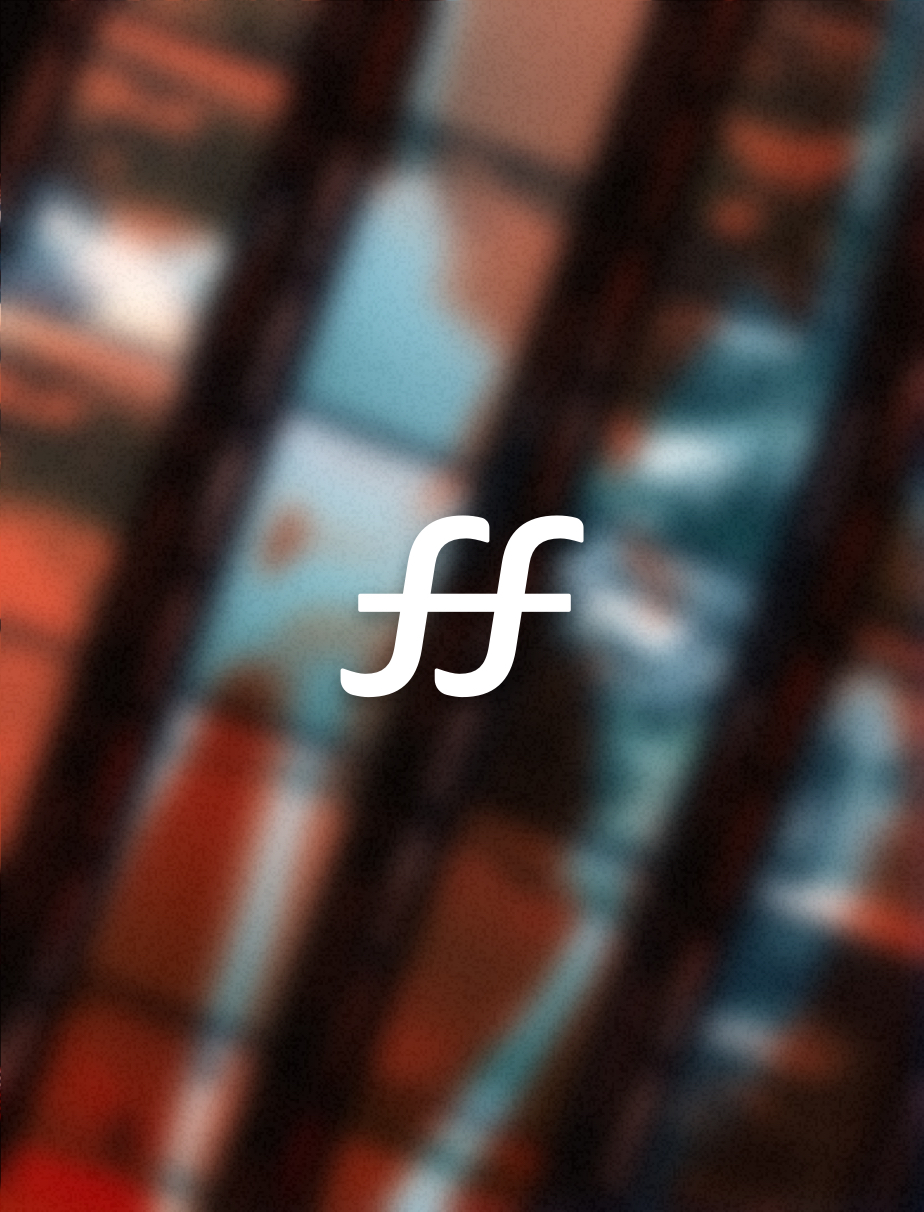
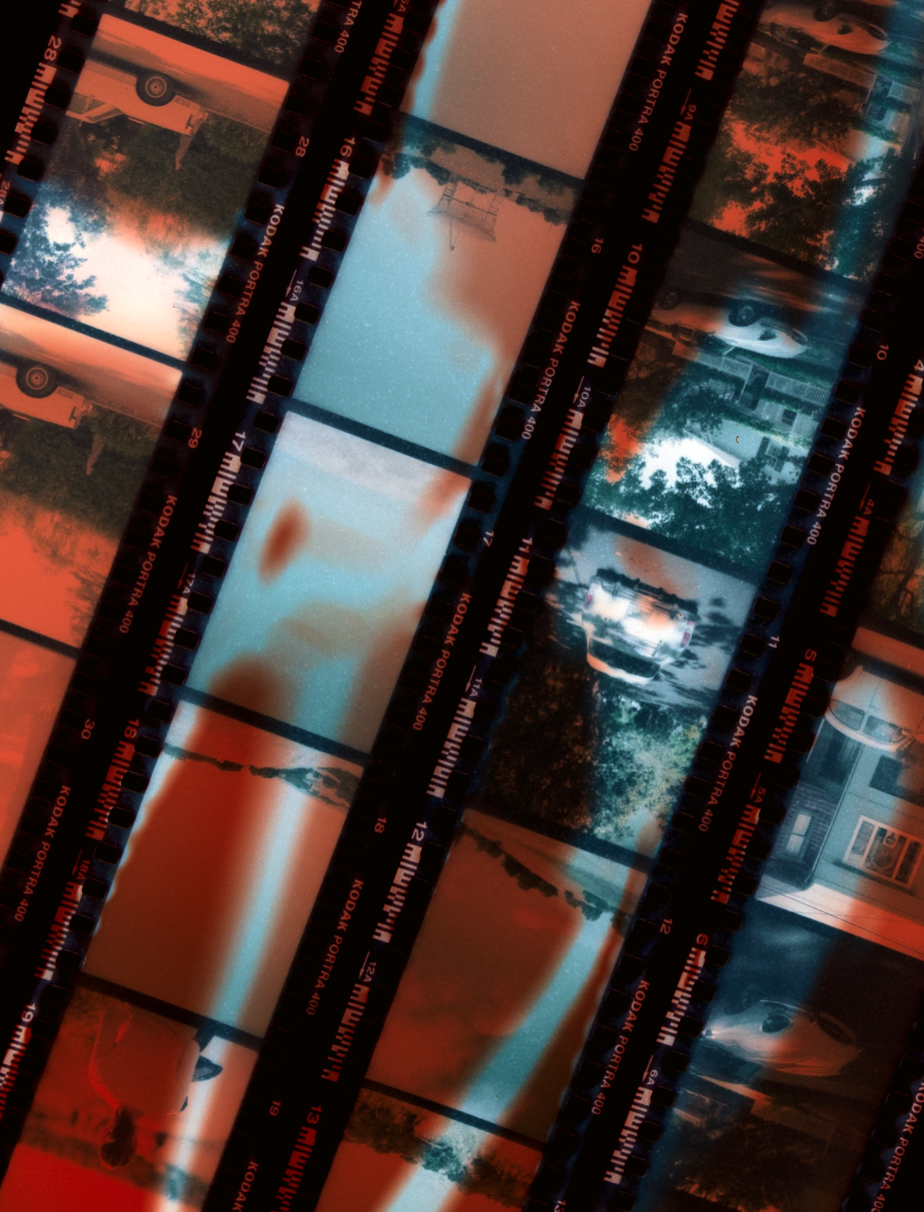
:construction:

diff --git a/filmfeed.html b/filmfeed.html
@@ -14,14 +14,14 @@
       <div class="overlay"></div>
       <img
         id="project-cover"
-        src="./assets/images/projects/instagram/instagram_header.jpg"
+        src="./assets/images/projects/filmfeed/filmfeed_header.jpg"
         srcset="
-          ./assets/images/projects/clear-sky/clear-sky_header.jpg     720w,
-          ./assets/images/projects/clear-sky/clear-sky_header@2x.jpg 1440w,
-          ./assets/images/projects/clear-sky/clear-sky_header@3x.jpg 2160w,
-          ./assets/images/projects/clear-sky/clear-sky_header@4x.jpg 2880w,
-          ./assets/images/projects/clear-sky/clear-sky_header@5x.jpg 3600w,
-          ./assets/images/projects/clear-sky/clear-sky_header@6x.jpg 4320w
+          ./assets/images/projects/filmfeed/filmfeed_header.jpg     720w,
+          ./assets/images/projects/filmfeed/filmfeed_header@2x.jpg 1440w,
+          ./assets/images/projects/filmfeed/filmfeed_header@3x.jpg 2160w,
+          ./assets/images/projects/filmfeed/filmfeed_header@4x.jpg 2880w,
+          ./assets/images/projects/filmfeed/filmfeed_header@5x.jpg 3600w,
+          ./assets/images/projects/filmfeed/filmfeed_header@6x.jpg 4320w
         "
         alt=""
       />
@@ -30,75 +30,58 @@
       <div class="container block">
         <h1>FilmFeed</h1>
         <p>
-          During the first edition of
-          <a href="https://www.framer.com/loupe/">Loupe</a>, I build my first
-          prototype with Framer X. This was for me the opportunity to dust off
-          my front-end skills, with the introduction of React in Framer.
+          As I started shooting film in 2018, I needed a way to share my work
+          with others. While Instagram and Flickr are some valid options, I
+          wanted to create a more personal experience. It was also the
+          opportunity for me to combine my 2 passions: photography & design.
         </p>
       </div>
       <div class="container full-width">
         <img
           class="full-width"
-          src="./assets/images/projects/clear-sky/screens.png"
+          src="./assets/images/projects/filmfeed/camera.jpg"
           srcset="
-            ./assets/images/projects/clear-sky/screens.png    1440w,
-            ./assets/images/projects/clear-sky/screens@2x.png 2880w,
-            ./assets/images/projects/clear-sky/screens@3x.png 4320w
+            ./assets/images/projects/filmfeed/camera.jpg    1440w,
+            ./assets/images/projects/filmfeed/camera@2x.jpg 2880w,
+            ./assets/images/projects/filmfeed/camera@3x.jpg 4320w
           "
           alt=""
         />
       </div>
       <div class="container block">
-        <h2>Stories</h2>
+        <h2>Logo and branding</h2>
         <p>
-          The prototype is a simple app showing the chances of precipitation in
-          the next hours. It uses geolocalisation to get the position of the
-          user and Dark Sky for the weather predictions.
+          The logo is composed of 2 keys elements: The background is a grainy 3
+          colors gradient, made of a warm yellow, a vivid red and a cool blue.
+          The combinaison creates a spectrum of colors, while the grain provides
+          some texture on top. The logo uses the initials of FilmFeed and is a
+          reference to the URL of the website. It is made of 2 Fs that represent
+          the aperture number in photography.
         </p>
         <img
-          src="./assets/images/projects/instagram/posts.png"
+          src="./assets/images/projects/filmfeed/logo.png"
           srcset="
-            ./assets/images/projects/instagram/stories.png     649w,
-            ./assets/images/projects/instagram/stories@2x.png 1948w
+            ./assets/images/projects/filmfeed/logo.png     649w,
+            ./assets/images/projects/filmfeed/logo@2x.png 1948w
           "
           alt=""
         />
-        <h2>Instagram for iPad</h2>
+        <h2>Approche</h2>
         <p>
-          Lorem ipsum dolor sit amet, consectetur adipiscing elit. Integer
-          pretium odio eget velit tincidunt dapibus sed consequat dolor. Integer
-          rutrum viverra arcu, vel ullamcorper mauris mollis eu. Aliquam erat
-          volutpat. Orci varius natoque penatibus et magnis dis parturient
-          montes, nascetur ridiculus mus. Phasellus tellus sem, lacinia semper
-          sodales id, elementum non nisl. Nullam quis lacus mollis, pulvinar est
-          quis, aliquam dui. Proin vel egestas libero, quis gravida tellus.
-          Aliquam nec turpis purus. Mauris eu tellus tempus, mattis erat id,
-          bibendum libero.
+          For this personal project, I wanted it to reflect the experience of
+          shooting film as much as possible. Simplicity and focus are two of its
+          main components. During the entire design process, I kept asking
+          myself if my decisions would align with this approche.
         </p>
+      </div>
+      <div class="container full-width">
         <img
-          src="./assets/images/projects/instagram/posts.png"
+          class="full-width"
+          src="./assets/images/projects/filmfeed/grid.jpg"
           srcset="
-            ./assets/images/projects/instagram/stories.png     649w,
-            ./assets/images/projects/instagram/stories@2x.png 1948w
-          "
-          alt=""
-        />
-        <p>
-          Lorem ipsum dolor sit amet, consectetur adipiscing elit. Integer
-          pretium odio eget velit tincidunt dapibus sed consequat dolor. Integer
-          rutrum viverra arcu, vel ullamcorper mauris mollis eu. Aliquam erat
-          volutpat. Orci varius natoque penatibus et magnis dis parturient
-          montes, nascetur ridiculus mus. Phasellus tellus sem, lacinia semper
-          sodales id, elementum non nisl. Nullam quis lacus mollis, pulvinar est
-          quis, aliquam dui. Proin vel egestas libero, quis gravida tellus.
-          Aliquam nec turpis purus. Mauris eu tellus tempus, mattis erat id,
-          bibendum libero.
-        </p>
-        <img
-          src="./assets/images/projects/instagram/posts.png"
-          srcset="
-            ./assets/images/projects/instagram/stories.png     649w,
-            ./assets/images/projects/instagram/stories@2x.png 1948w
+            ./assets/images/projects/filmfeed/grid.jpg    1440w,
+            ./assets/images/projects/filmfeed/grid@2x.jpg 2880w,
+            ./assets/images/projects/filmfeed/grid@3x.jpg 4320w
           "
           alt=""
         />

diff --git a/clear-sky.html b/clear-sky.html
@@ -14,7 +14,7 @@
       <div class="overlay"></div>
       <img
         id="project-cover"
-        src="./assets/images/projects/instagram/instagram_header.jpg"
+        src="./assets/images/projects/clear-sky/clear-sky_header.jpg"
         srcset="
           ./assets/images/projects/clear-sky/clear-sky_header.jpg     720w,
           ./assets/images/projects/clear-sky/clear-sky_header@2x.jpg 1440w,
@@ -56,7 +56,7 @@
           user and Dark Sky for the weather predictions.
         </p>
         <img
-          src="./assets/images/projects/instagram/posts.png"
+          src="./assets/images/projects/instagram/posts.jpg"
           srcset="
             ./assets/images/projects/instagram/stories.png     649w,
             ./assets/images/projects/instagram/stories@2x.png 1948w
@@ -76,7 +76,7 @@
           bibendum libero.
         </p>
         <img
-          src="./assets/images/projects/instagram/posts.png"
+          src="./assets/images/projects/instagram/posts.jpg"
           srcset="
             ./assets/images/projects/instagram/stories.png     649w,
             ./assets/images/projects/instagram/stories@2x.png 1948w
@@ -95,7 +95,7 @@
           bibendum libero.
         </p>
         <img
-          src="./assets/images/projects/instagram/posts.png"
+          src="./assets/images/projects/instagram/posts.jpg"
           srcset="
             ./assets/images/projects/instagram/stories.png     649w,
             ./assets/images/projects/instagram/stories@2x.png 1948w

diff --git a/front.html b/front.html
@@ -54,7 +54,7 @@
           user and Dark Sky for the weather predictions.
         </p>
         <img
-          src="./assets/images/projects/instagram/posts.png"
+          src="./assets/images/projects/instagram/posts.jpg"
           srcset="
             ./assets/images/projects/instagram/stories.png     649w,
             ./assets/images/projects/instagram/stories@2x.png 1948w
@@ -74,7 +74,7 @@
           bibendum libero.
         </p>
         <img
-          src="./assets/images/projects/instagram/posts.png"
+          src="./assets/images/projects/instagram/posts.jpg"
           srcset="
             ./assets/images/projects/instagram/stories.png     649w,
             ./assets/images/projects/instagram/stories@2x.png 1948w
@@ -93,7 +93,7 @@
           bibendum libero.
         </p>
         <img
-          src="./assets/images/projects/instagram/posts.png"
+          src="./assets/images/projects/instagram/posts.jpg"
           srcset="
             ./assets/images/projects/instagram/stories.png     649w,
             ./assets/images/projects/instagram/stories@2x.png 1948w

diff --git a/instagram-for-ipad.html b/instagram-for-ipad.html
@@ -37,11 +37,11 @@
       <div class="container full-width">
         <img
           class="full-width"
-          src="./assets/images/projects/instagram/posts.png"
+          src="./assets/images/projects/instagram/posts.jpg"
           srcset="
-            ./assets/images/projects/instagram/posts.png    1440w,
-            ./assets/images/projects/instagram/posts@2x.png 2880w,
-            ./assets/images/projects/instagram/posts@3x.png 4320w
+            ./assets/images/projects/instagram/posts.jpg    1440w,
+            ./assets/images/projects/instagram/posts@2x.jpg 2880w,
+            ./assets/images/projects/instagram/posts@3x.jpg 4320w
           "
           alt=""
         />
